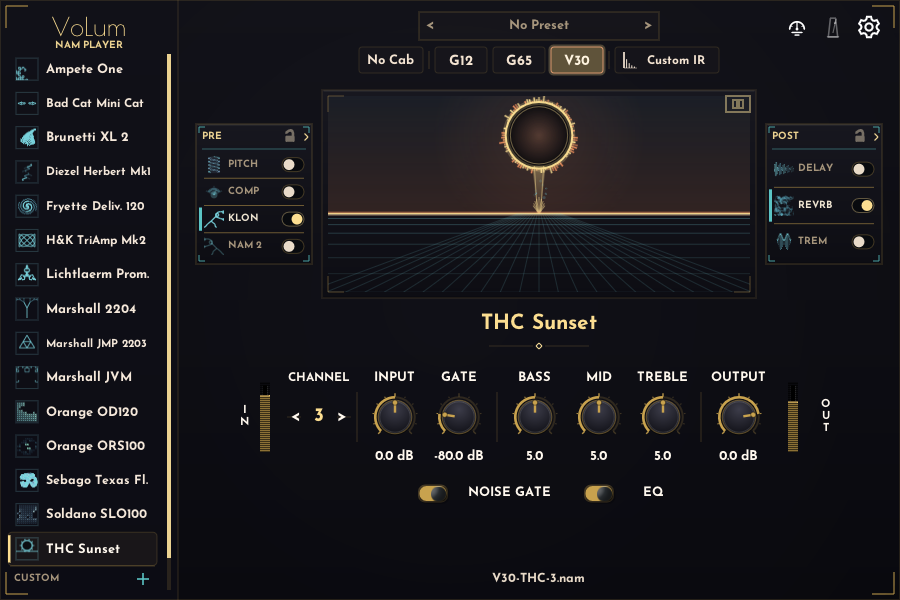
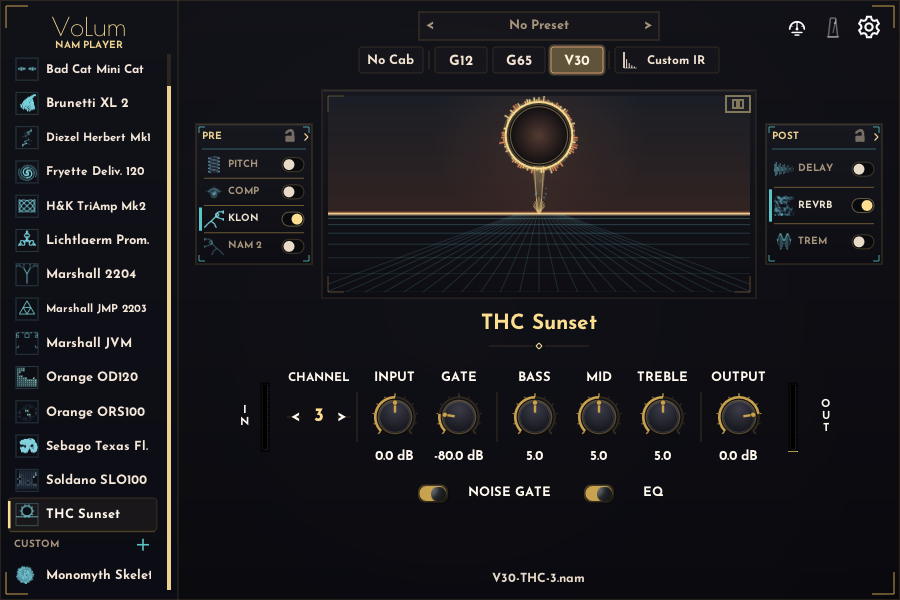
release prep 1.2.0: macOS multi-file import + BYO round-trip test + reshot docs
- iPlug2 fork: add IGraphicsMac::PromptForFiles (NSOpenPanel multi-select) so
  macOS can import multiple .nam/.wav at once like Windows; bump submodule pointer.
- tests: end-to-end content-store round-trip (multi-nam custom amp + custom IR +
  custom PRE pedal + scene + preset) through on-disk Save()/Load(), plus a
  missing-copied-capture detection test. Windows suite green (494 doctests).
- docs: refresh hero screenshot; capture missing pre-pedal + tremolo shots.

diff --git a/NeuralAmpModeler/tests/test_volum_content_store.cpp b/NeuralAmpModeler/tests/test_volum_content_store.cpp
@@ -536,6 +536,161 @@ TEST_CASE("A recalled preset snapshot round-trips through the registry equal")
   CHECK(volum::AmpSettingsEqual(back.presetBanks.at("factory:3")[0].settings, pr.settings));
 }
 
+// Release regression (1.2.0 "bring your own + presets"): a real project mixes a
+// multi-.nam custom amp, a custom IR, a custom PRE pedal, a per-amp scene, and a
+// preset that references all three at once. The codec/store units above each
+// cover one facet; this pins the whole combination surviving a real on-disk
+// Save() -> Load() with the copied capture files still resolvable. Missing this
+// end-to-end pin is how a "presets/BYO lost my stuff on reload" bug would ship.
+TEST_CASE("Combined BYO project (multi-nam amp + IR + pedal + scene + preset) round-trips on disk")
+{
+  using volum::custom::CustomAmp;
+  using volum::custom::CustomNamFile;
+  using volum::custom::kDirectSlot;
+
+  const auto base = TestBase("byo-combined");
+  const auto directSrc = WriteSrc(base / "incoming", "AMP-Plexi-1.nam", "NAMdirect");
+  const auto cabSrc = WriteSrc(base / "incoming", "G65-Plexi-2.nam", "NAMcab");
+  const auto irSrc = WriteSrc(base / "incoming", "Mesa 4x12.wav", "RIFFir");
+  const auto pedalSrc = WriteSrc(base / "incoming", "Klon.nam", "NAMpedal");
+
+  ContentStore store(base);
+
+  // Custom amp with two captures on different (slot, channel) cells.
+  CustomAmp amp;
+  amp.id = "amp_byo";
+  amp.name = "BYO Plexi";
+  amp.cabNames = {"G65", "CB2", "CB3"};
+  CustomNamFile direct;
+  direct.file = "AMP-Plexi-1.nam";
+  direct.slot = kDirectSlot;
+  direct.channel = 1;
+  direct.storedPath = store.ImportFileCopy(directSrc, "amps", "amp_byo_0");
+  CustomNamFile cab;
+  cab.file = "G65-Plexi-2.nam";
+  cab.slot = 0;
+  cab.channel = 2;
+  cab.storedPath = store.ImportFileCopy(cabSrc, "amps", "amp_byo_1");
+  amp.files = {direct, cab};
+  store.reg().amps.push_back(amp);
+
+  // Custom IR + custom PRE pedal (legacy index in the custom pool).
+  IRItem ir;
+  ir.id = "ir_byo";
+  ir.name = "Mesa OS";
+  ir.file = store.ImportFileCopy(irSrc, "ir", "ir_byo");
+  store.reg().irs.push_back(ir);
+
+  PedalItem pedal;
+  pedal.id = "pedal_byo";
+  pedal.name = "Klon";
+  pedal.group = "klon";
+  pedal.file = store.ImportFileCopy(pedalSrc, "pedals", "pedal_byo");
+  pedal.legacyIndex = kCustomPedalIndexBase;
+  store.reg().pedals.push_back(pedal);
+
+  // Per-amp scene wiring the custom IR + pedal into the live rig.
+  VoLumAmpSettings scene;
+  scene.channelIdx = 2;
+  scene.activeIrId = "ir_byo";
+  scene.preNam1Active = true;
+  scene.preNam1Capture = kCustomPedalIndexBase;
+  store.reg().customScenes["amp_byo"] = scene;
+
+  // A preset in this amp's bank referencing all three custom refs together.
+  Preset pr;
+  pr.id = "preset_byo";
+  pr.name = "Dual lead";
+  pr.settings.activeIrId = "ir_byo";
+  pr.settings.preNam1Active = true;
+  pr.settings.preNam1Capture = kCustomPedalIndexBase;
+  pr.settings.dualAmpActive = true;
+  pr.settings.supportCustomId = "amp_byo";
+  pr.settings.supportCustomSlot = 0;
+  pr.settings.supportCustomChannel = 2;
+  store.reg().presetBanks["amp_byo"] = {pr};
+
+  REQUIRE(store.Save());
+
+  ContentStore reloaded(base);
+  REQUIRE(reloaded.Load());
+  const Registry& r = reloaded.reg();
+
+  // Custom amp + both captures survive, and their copied files resolve on disk.
+  REQUIRE(r.amps.size() == 1);
+  CHECK(r.amps[0].id == "amp_byo");
+  REQUIRE(r.amps[0].files.size() == 2);
+  CHECK(CaptureFileFor(r.amps[0], kDirectSlot, 1) == direct.storedPath);
+  CHECK(CaptureFileFor(r.amps[0], 0, 2) == cab.storedPath);
+  CHECK(std::filesystem::exists(reloaded.ResolveStored(direct.storedPath)));
+  CHECK(std::filesystem::exists(reloaded.ResolveStored(cab.storedPath)));
+
+  // Custom IR + pedal survive with resolvable files.
+  REQUIRE(r.irs.size() == 1);
+  CHECK(r.irs[0].id == "ir_byo");
+  CHECK(std::filesystem::exists(reloaded.ResolveStored(r.irs[0].file)));
+  REQUIRE(r.pedals.size() == 1);
+  CHECK(r.pedals[0].legacyIndex == kCustomPedalIndexBase);
+  CHECK(std::filesystem::exists(reloaded.ResolveStored(r.pedals[0].file)));
+
+  // Per-amp scene keeps its custom IR + pedal wiring.
+  REQUIRE(r.customScenes.count("amp_byo") == 1);
+  CHECK(r.customScenes.at("amp_byo").activeIrId == "ir_byo");
+  CHECK(r.customScenes.at("amp_byo").preNam1Capture == kCustomPedalIndexBase);
+
+  // Preset keeps every custom ref together (the recall payload is intact).
+  REQUIRE(r.presetBanks.count("amp_byo") == 1);
+  REQUIRE(r.presetBanks.at("amp_byo").size() == 1);
+  const auto& got = r.presetBanks.at("amp_byo")[0].settings;
+  CHECK(got.activeIrId == "ir_byo");
+  CHECK(got.preNam1Capture == kCustomPedalIndexBase);
+  CHECK(got.supportCustomId == "amp_byo");
+  CHECK(got.supportCustomSlot == 0);
+  CHECK(got.supportCustomChannel == 2);
+  CHECK(volum::AmpSettingsEqual(r.presetBanks.at("amp_byo")[0].settings, pr.settings));
+}
+
+// Release regression: recalling a preset / focusing a custom amp whose copied
+// capture file was deleted from disk (moved library, partial sync) must not hand
+// the loader a path that "resolves" to a missing file without any signal. This
+// pins the store contract: CaptureFileFor still returns the recorded storedPath
+// (so higher layers can decide), ResolveStored composes it under base, and the
+// caller can detect the file is gone via std::filesystem::exists.
+TEST_CASE("Missing copied capture is detectable via ResolveStored (no silent success)")
+{
+  using volum::custom::CustomAmp;
+  using volum::custom::CustomNamFile;
+  using volum::custom::kDirectSlot;
+
+  const auto base = TestBase("byo-missing-file");
+  const auto src = WriteSrc(base / "incoming", "AMP-1.nam", "NAMbody");
+  ContentStore store(base);
+
+  CustomNamFile f;
+  f.file = "AMP-1.nam";
+  f.slot = kDirectSlot;
+  f.channel = 1;
+  f.storedPath = store.ImportFileCopy(src, "amps", "amp_gone_0");
+  REQUIRE_FALSE(f.storedPath.empty());
+  CustomAmp amp;
+  amp.id = "amp_gone";
+  amp.files = {f};
+
+  const auto resolved = store.ResolveStored(f.storedPath);
+  REQUIRE(std::filesystem::exists(resolved));
+
+  // Simulate the copied capture disappearing from the content library.
+  std::error_code ec;
+  std::filesystem::remove(resolved, ec);
+  REQUIRE_FALSE(ec);
+
+  // The reference is preserved (not silently blanked)...
+  CHECK(CaptureFileFor(amp, kDirectSlot, 1) == f.storedPath);
+  // ...but the resolved path now reports missing, so the loader can skip/report
+  // instead of trying to load a phantom model.
+  CHECK_FALSE(std::filesystem::exists(store.ResolveStored(f.storedPath)));
+}
+
 TEST_CASE("Reopen dirty baseline derives from preset content, not the live scene")
 {
   // Funnel C: on session / DAW restore the recalled-snapshot baseline must be
